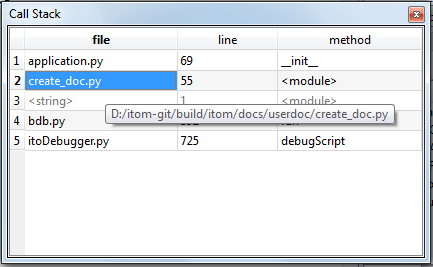
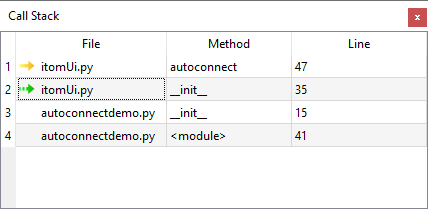
documentation about callstack toolbox adapted to new features

diff --git a/docs/userDoc/source/04_itom_gui/callStack.rst b/docs/userDoc/source/04_itom_gui/callStack.rst
@@ -5,9 +5,10 @@ Call Stack
 
 The call stack toolbox is only active and useful when debugging any python script with |itom|.
 
-The usage of the call stack should be presented using one simple example. The script **create_doc.py** is executed in debug mode
-and the debugger is currently waiting in the constructor of the class **Sphinx**, implemented in the file **application.py**.
-When opening this file in |itom|, a yellow array shows the current position of the debugger in line 69 of the file **application.py**.
+The usage of the call stack should be presented using one simple example. The script **autoConnectDemo.py** from the itom demo folder
+is executed in debug mode and the debugger is currently waiting in the method **autoconnect** of the class **ItomUi**
+of the module **itomUi.py** (see folder *itom-packages*).
+When opening this file in |itom|, a yellow array shows the current position of the debugger in line 47 of the file **itomUi.py**.
 
 The corresponding call stack is then visible in the toolbox, like depicted below:
 
@@ -15,13 +16,19 @@ The corresponding call stack is then visible in the toolbox, like depicted below
     :scale: 100%
     :align: center
     
-A call stack shows the current function stack. At first, the debug process in |itom| is started by calling some functions in the
-files **bdb.py**, **itoDebugger.py** and **<script>**. Afterwards the currently debugged line in the script, where the debug process is started,
-is listed. If this script calls another method or class in the same or a different script, an entry is added on top of the call stack. Once this
-method is finished, the entry is removed from the stack and the debugger continues at the position, that is currently on top of the stack.
+A call stack shows the current function stack, which is a nested list of method and function calls. Whenever a method
+or function is called from any part of a script and the debugger stops within this called function, a new line
+is added on top of the callstack. Therefore, the bottom row of the callstack shows the outermost entry. Once 
+a method or function is finished (e.g. by a return statement), the corresponding line is removed from the callstack.
 
 By double-clicking on any enabled entry of the call stack, the corresponding python script is opened in |itom| and the position of the debugger
-becomes the current line. You can use the call stack in order to trace the entire call history for an improved debugging of the script(s).
+becomes the current line. The currently executed line will always be marked by a yellow arrow, while any other
+double clicked line will be marked in the callstack toolbox as well as the script with a green arrow in the same
+column than the breakpoints:
+
+.. figure:: images/callstack2.png
+    :scale: 100%
+    :align: center
 
 .. note::
     
